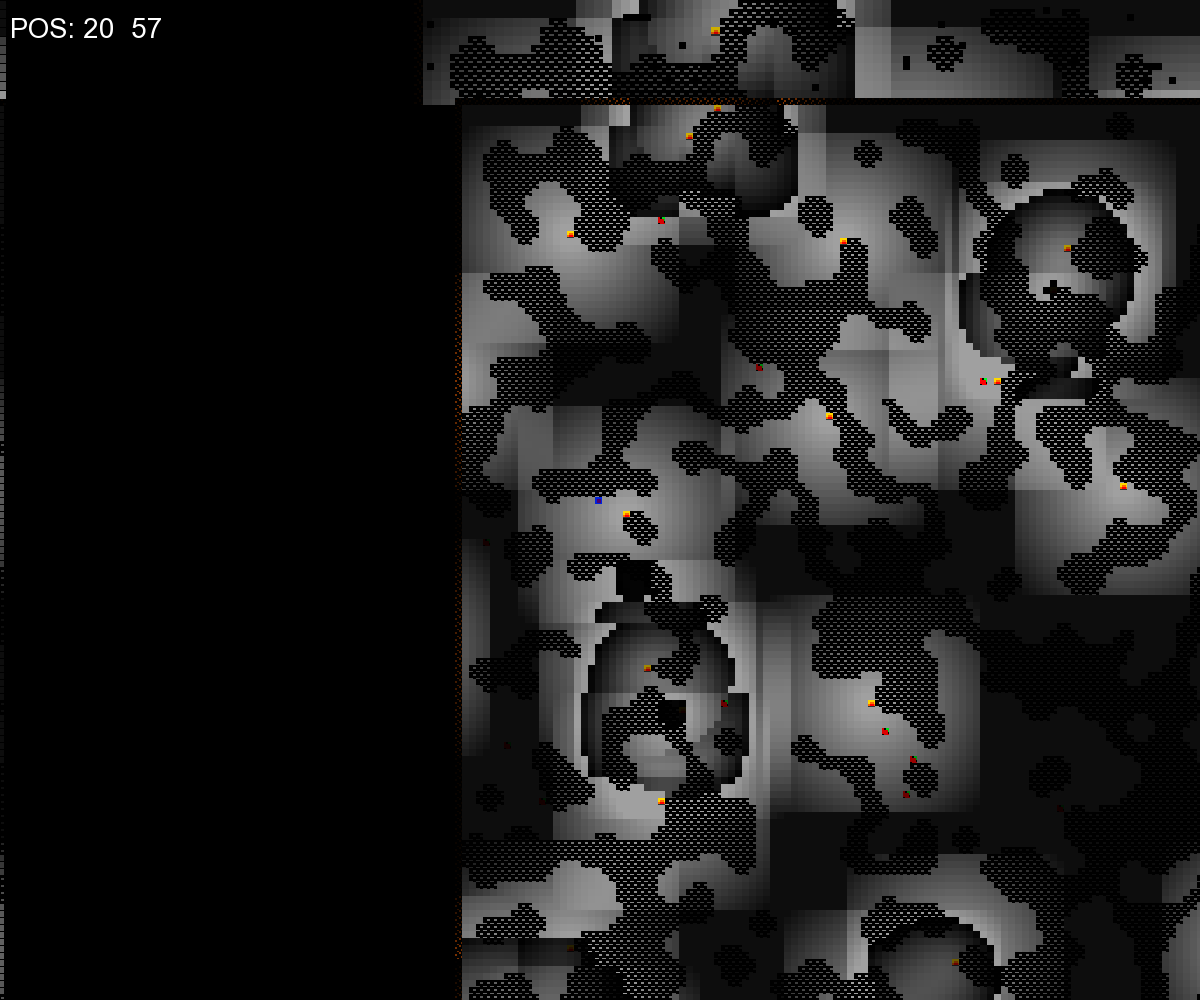
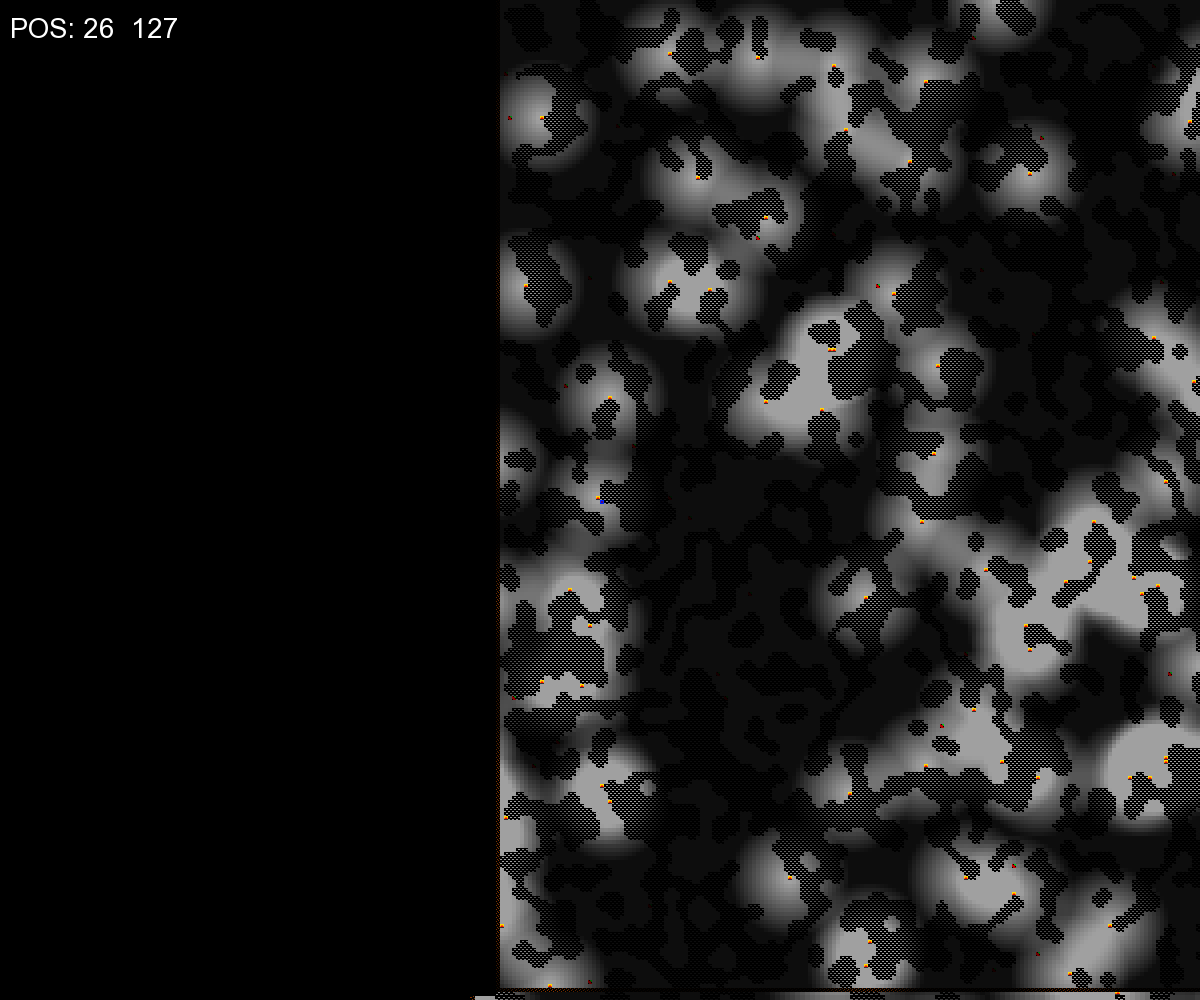
fixed lightning

diff --git a/src/Life.cpp b/src/Life.cpp
@@ -67,10 +67,10 @@ static void set_light_lamp(Map_t* map, int pos)
 
             float dist = sqrtf((float)(dx * dx + dy * dy));
 
-            int was_light = map->light[pos + dy * M + dx];
-            int new_light = (unsigned char) (255 * (float)(1.f - MIN(1.f, dist / (float)light_dist / light_force)));
-            int new_light_norm = MAX(0, MIN(255, new_light));
-            map->light[pos + dy * M + dx] = MIN(255, was_light + new_light_norm);
+            unsigned char was_light = map->light[pos + dy * M + dx];
+            unsigned char new_light = (unsigned char) (255 * (float)(1.f - MIN(1.f, dist / (float)light_dist / light_force)));
+            unsigned char new_light_norm = MAX(0, MIN(255, new_light));
+            map->light[pos + dy * M + dx] = (unsigned char) MIN(255, was_light + new_light_norm);
         }
     }
 }
